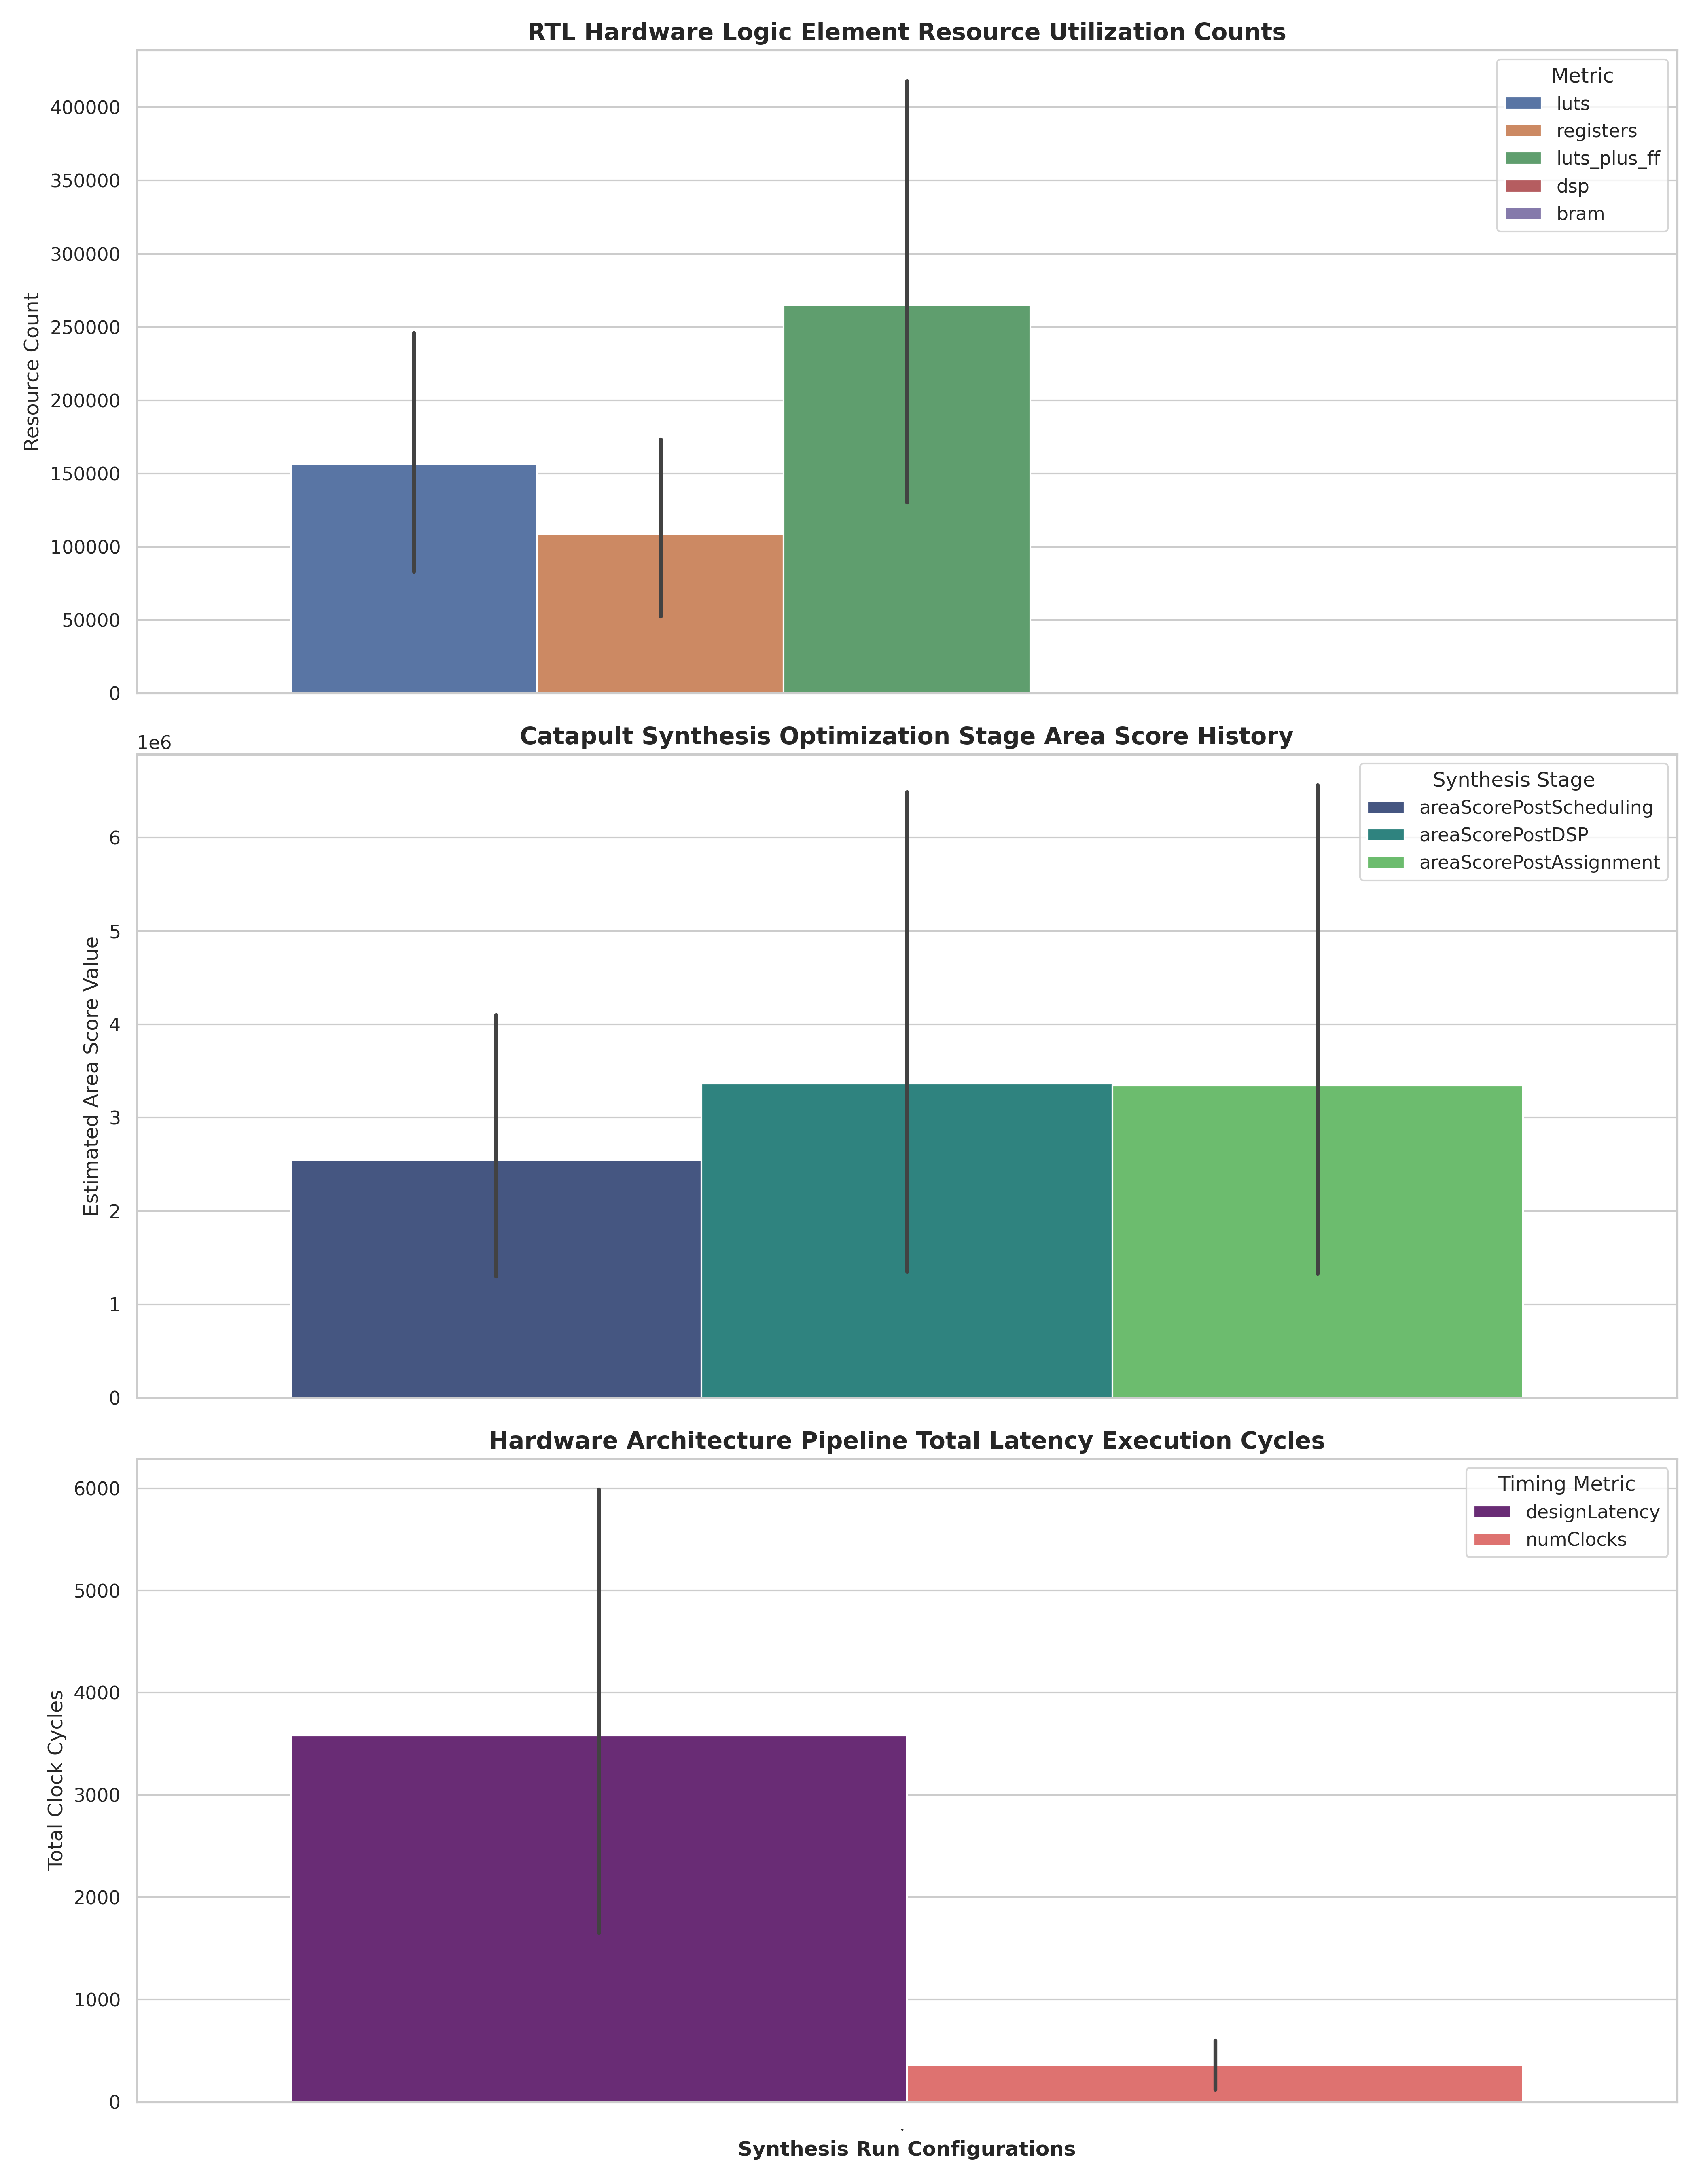
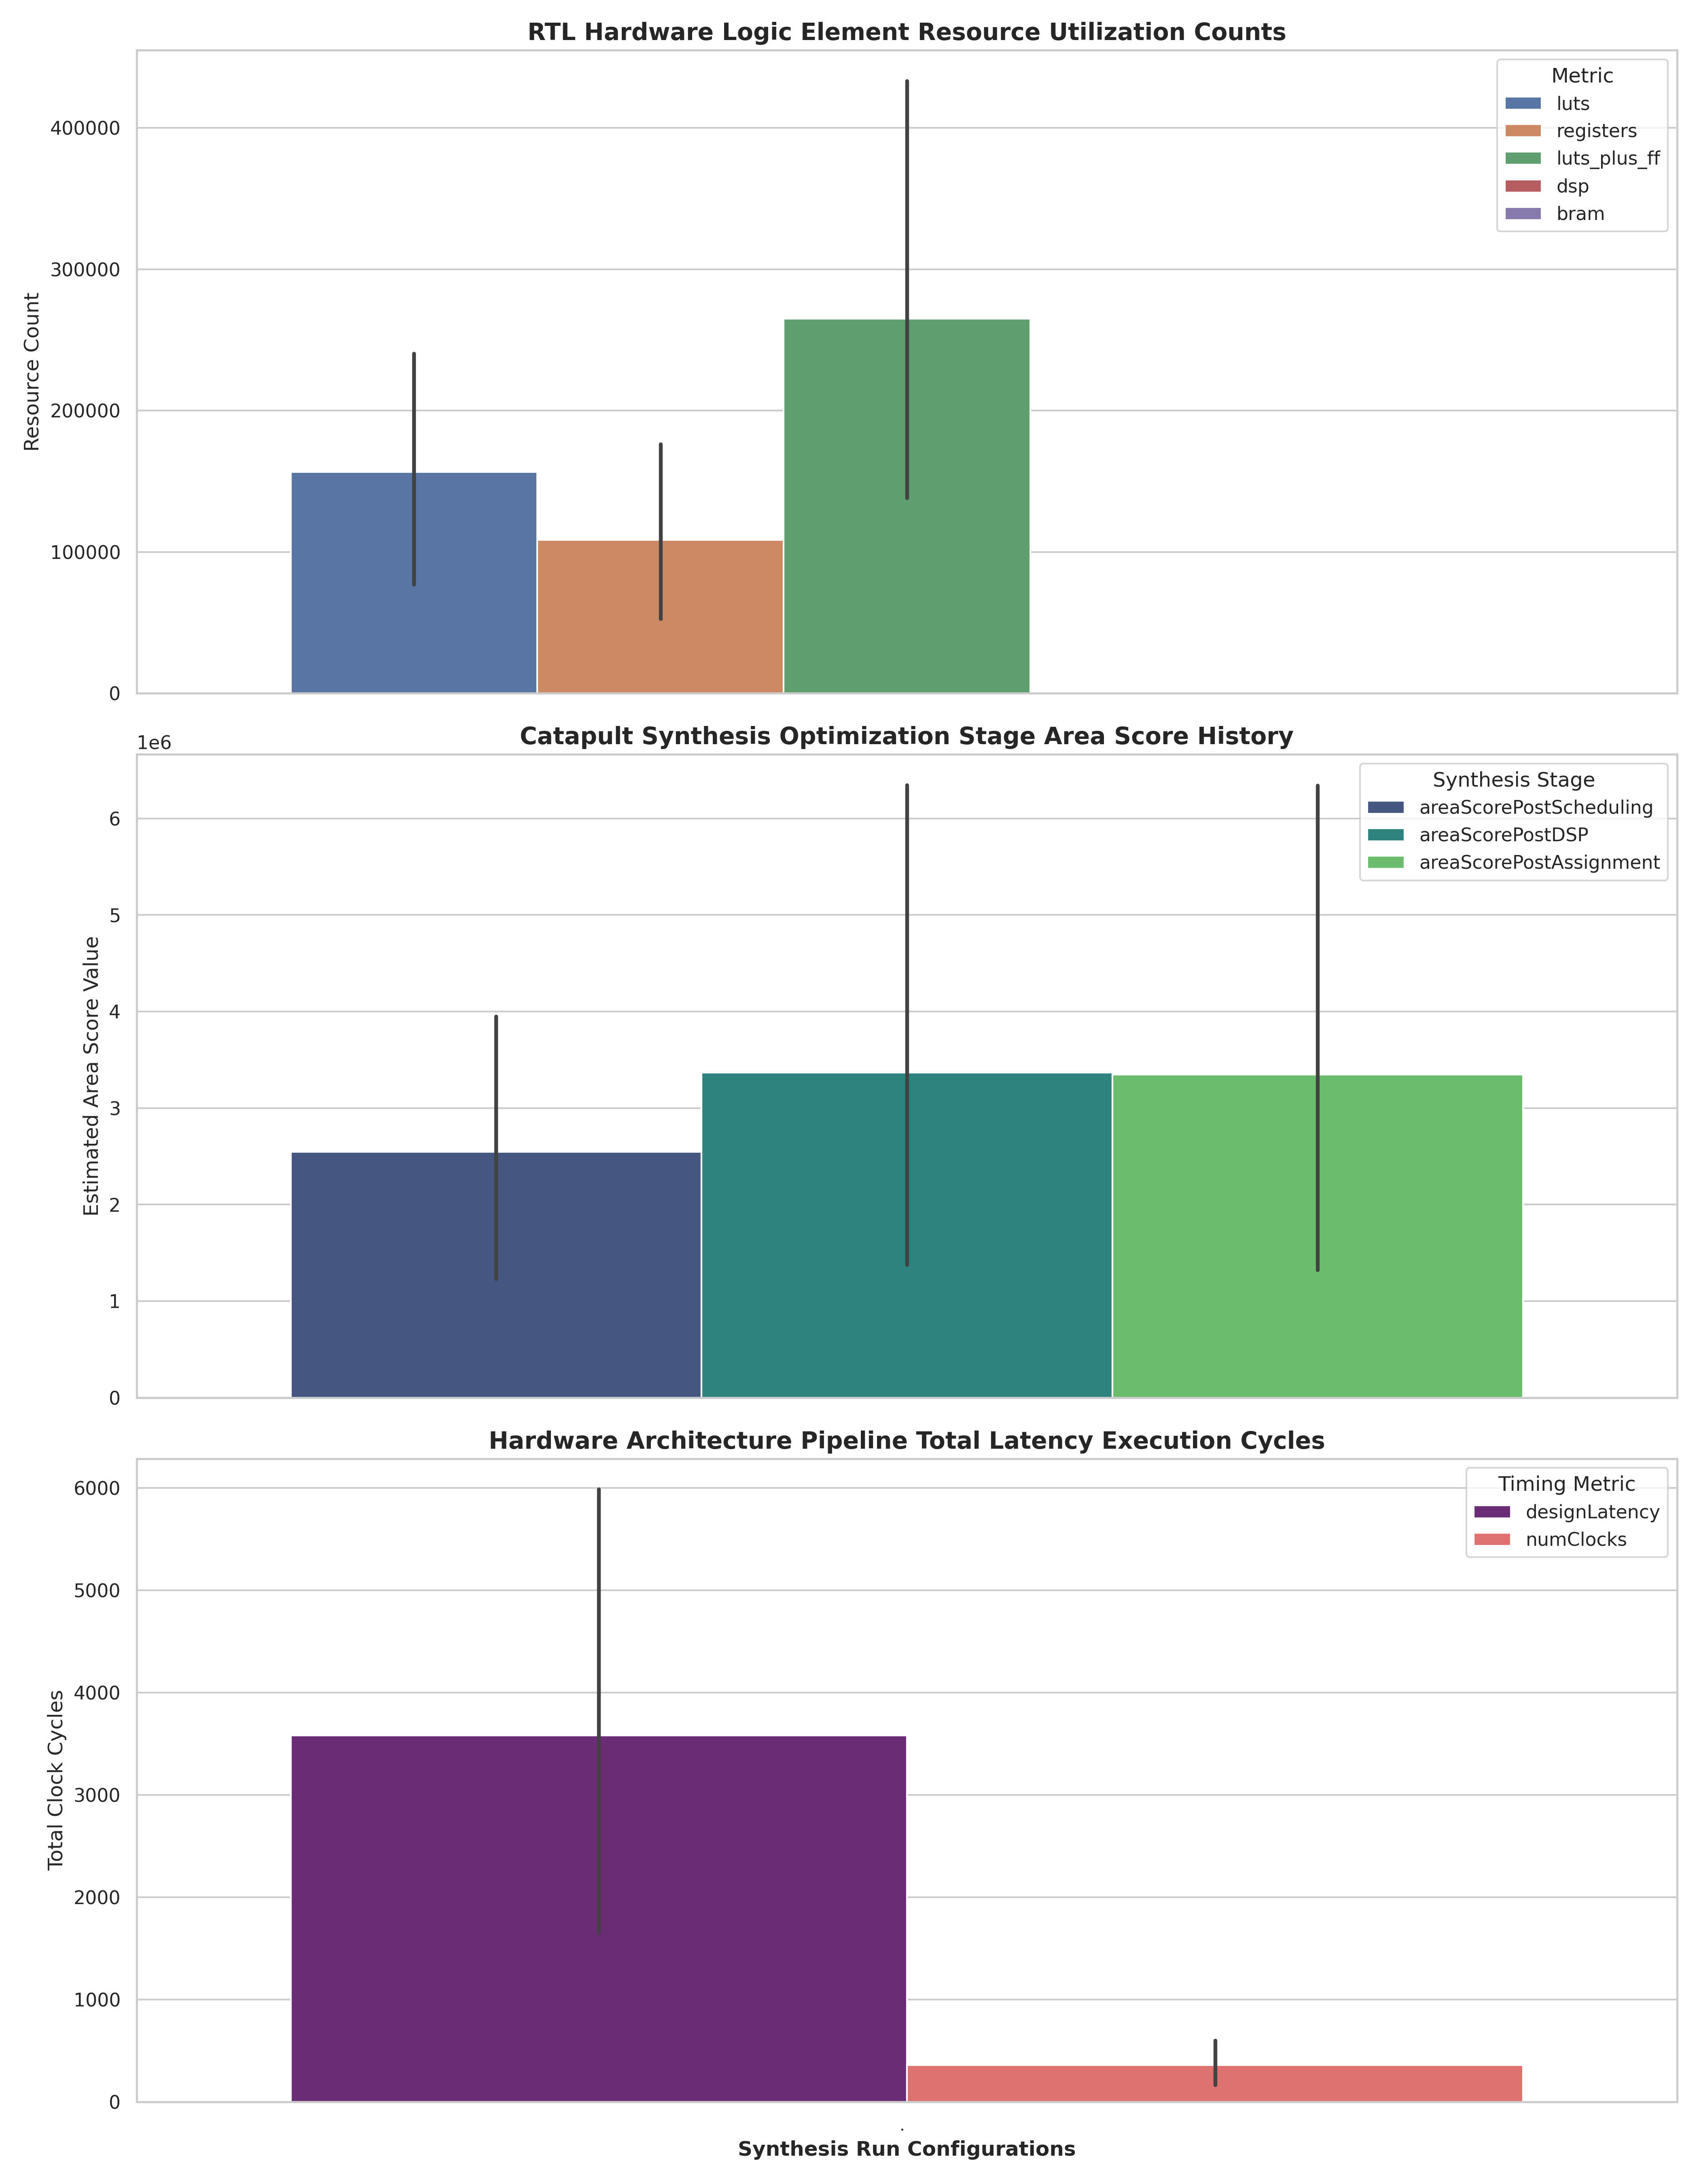
Reran synthesis targetting 10 ns for selected models 1 and 2

diff --git a/daniel/hlsVerifyRunner.py b/daniel/hlsVerifyRunner.py
@@ -36,11 +36,11 @@ singleFilepath = "/home/dabadjiev/smartpixels_ml_dsabadjiev/Muon_Collider_Smart_
 # need to do 009 8 bit
 #need to do 084 10 bit
 singleFilepath = "/home/dabadjiev/smartpixels_ml_dsabadjiev/Muon_Collider_Smart_Pixels/daniel/CrossParetoModels_selected/model1_fin_results_model1_8bit_normalised_selected__model_trial_1046.h5"
-# singleFilepath = "/home/dabadjiev/smartpixels_ml_dsabadjiev/Muon_Collider_Smart_Pixels/daniel/CrossParetoModels_selected/model3_10bit_normalised_selected_pareto_primary__model_trial_046.h5"
+singleFilepath = "/home/dabadjiev/smartpixels_ml_dsabadjiev/Muon_Collider_Smart_Pixels/daniel/CrossParetoModels_selected/model3_10bit_normalised_selected_pareto_primary__model_trial_046.h5"
 # singleFilepath = "/home/dabadjiev/smartpixels_ml_dsabadjiev/Muon_Collider_Smart_Pixels/daniel/CrossParetoModels_selected/model2.5_fin_results_model2_5_10bit_normalised_selected__model_trial_057.h5"
 # singleFilepath = "/home/dabadjiev/smartpixels_ml_dsabadjiev/Muon_Collider_Smart_Pixels/daniel/CrossParetoModels_selected/model2.5_fin_results_model2_5_10bit_normalised_selected__model_trial_087.h5"
-modelType = 1
-bitNumber = 8
+modelType = 3
+bitNumber = 10
 hlsDir = f"./hlsVerification/m{modelType}_b{bitNumber}_{singleFilepath[-20:-1]}"
 if runSingleVerification:
     hlsGuy = hlsVerification.hlsVerifier(

diff --git a/daniel/extractHLSDaniel.py b/daniel/extractHLSDaniel.py
@@ -5,7 +5,8 @@ Description: script to extract resources from new folder structure
 """
 
 import sys
-sys.path.append("../eric")
+# sys.path.append("../eric")
+sys.path.append("../paperPlots")
 from pareto_all_models import *
 import re
 import os